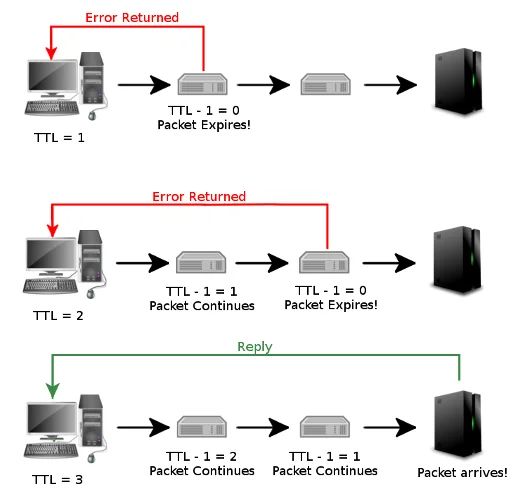
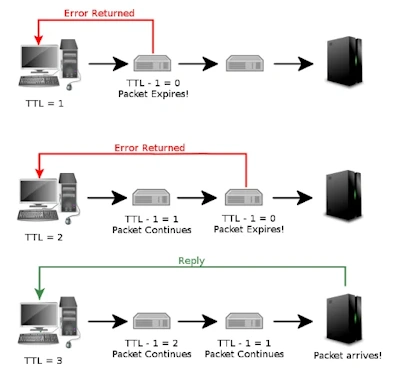
Add files via upload

diff --git a/ttleditor.html b/ttleditor.html
@@ -7,6 +7,7 @@
             <link rel="stylesheet" href="windows.css">
             <meta name="viewport" content="width=device-width, initial-scale=1">
             <link rel="stylesheet" media="(max-width: 768px)" href="2.css">
+            <link rel="stylesheet" href="ttleditor.css">
     </head>
 
     <body>
@@ -60,8 +61,8 @@
                                 <p>
                                     Чтобы обойти блокировку оператора, необходимо увеличить значение TTL на 1 единицу. Так мы получим увеличенное число, которое будет снижаться до исходного. В таком случае оператор не сможет заподозрить клиента в раздаче интернета.
                                 </p>
-                                <img src="images/Traceroute-Diagram-Example.webp" style="width: 400px;">
-                                <img src="images/8f2654.png" style="width: 600px;">
+                                <img src="images/Traceroute-Diagram-Example.webp">
+                                <img src="images/8f2654.png">
                                 <p>
                                     Судя по последним схемам видим, что значение TTL при передачи пакета оператору или следующему устройству (1 картинка) уменьшается на 1, поэтому, чтобы не было, что называется, "палева", займёмся тогда изменением значения TTL.
                                 </p>
@@ -85,7 +86,7 @@
                                             <td>x86</td>
                                             <td>.exe</td>
                                             <td>16 KB</td>
-                                            <td><a href="windows/">Скачать</a></td>
+                                            <td><a href="windows/ttl.zip">Скачать</a></td>
                                         </tr>
                                     </tbody>
                                 </table>

diff --git a/index.html b/index.html
@@ -4,6 +4,7 @@
     <head>
             <title>Сайт программиста Феликса Петрова. Главная</title>
             <link rel="stylesheet" href="style.css">
+            <meta name="description" content="Сайт программиста Феликса Петрова">
             <meta name="viewport" content="width=device-width, initial-scale=1">
             <link rel="stylesheet" media="(max-width: 768px)" href="2.css">
 

diff --git a/ttleditor.css b/ttleditor.css
@@ -1,0 +1,5 @@
+#div_contents > img{
+    margin: 50px auto;
+    display: block;
+    width: 80%;
+  }
